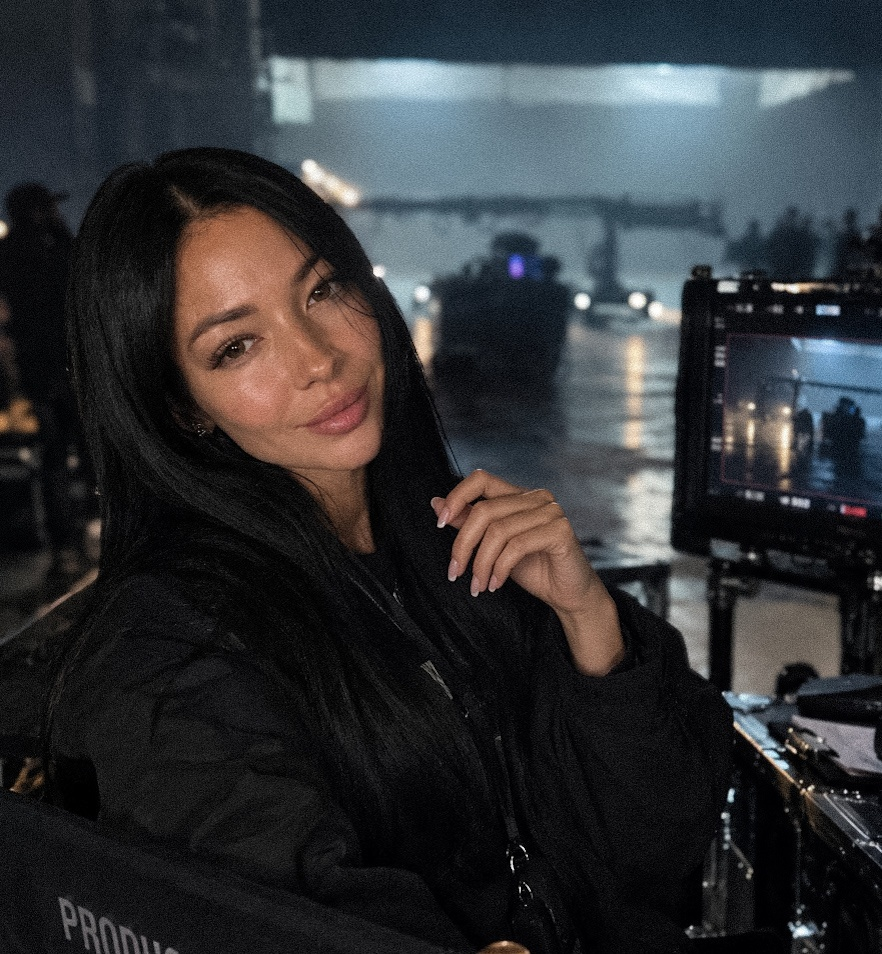
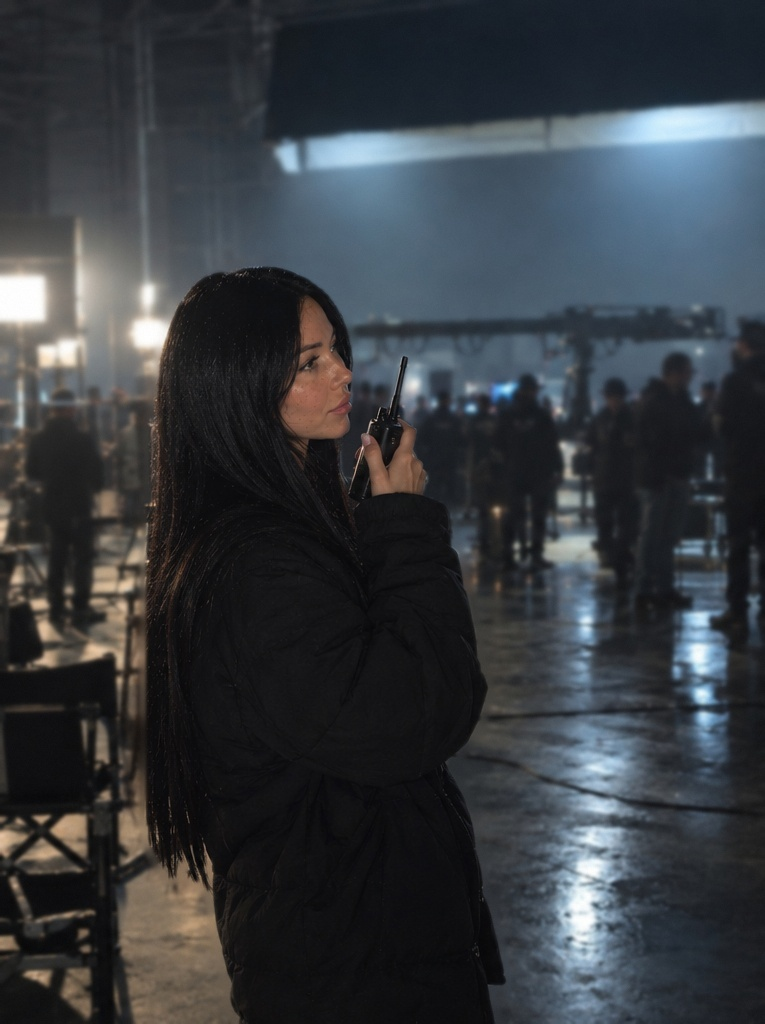
Add files via upload

diff --git a/index.html b/index.html
@@ -249,7 +249,7 @@ header.top{position:fixed;left:0;right:0;top:0;z-index:30;padding:calc(14px + en
 .producer figcaption{position:absolute;left:16px;right:16px;top:14px;text-shadow:0 1px 8px rgba(0,0,0,.7)}
 /* on-set portrait, shown smaller */
 .producer{align-items:center}
-.producer figure{aspect-ratio:882/954;width:100%;max-width:460px;justify-self:center}
+.producer figure{aspect-ratio:765/1024;width:100%;max-width:460px;justify-self:center}
 .bio{display:grid;gap:22px;max-width:62ch}
 .bio .lead{font-family:var(--display);font-weight:600;font-size:clamp(24px,2.6vw,36px);line-height:1.2;letter-spacing:-.02em}
 .bio p{color:var(--soft)}
@@ -790,7 +790,7 @@ header.top.on-hero .clock{opacity:.8}
       <p>The person who pitches is the person on set.</p>
     </div>
     <div class="producer">
-      <figure class="rv"><img src="yana-set.jpg" alt="Yana Holynska in the producer's chair on a film set, camera crane and monitor behind her" loading="lazy" width="882" height="954"><figcaption class="br" style="color:var(--fg)">Founder · Executive producer</figcaption></figure>
+      <figure class="rv"><img src="yana-set.jpg" alt="Yana Holynska with a walkie-talkie on a film set, camera crane and crew in the haze behind her" loading="lazy" width="765" height="1024"><figcaption class="br" style="color:var(--fg)">Founder · Executive producer</figcaption></figure>
       <div class="bio rv">
         <p class="lead">Years of live TV and commercial campaigns in Kyiv. Now that producer's eye works for brands and people in Calgary.</p>
         <p>On set I learned to see every image as part of a bigger story: who it's for, where it lives and what it needs to do. You get the strategy, the camera and the edit from one team that sees the whole picture.</p>
